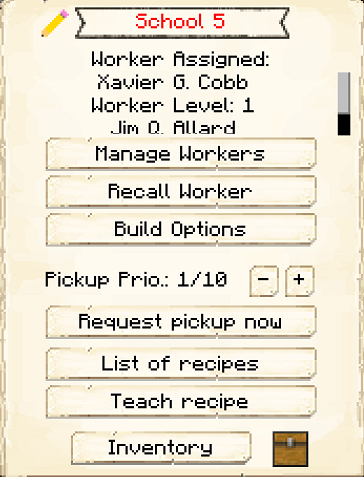
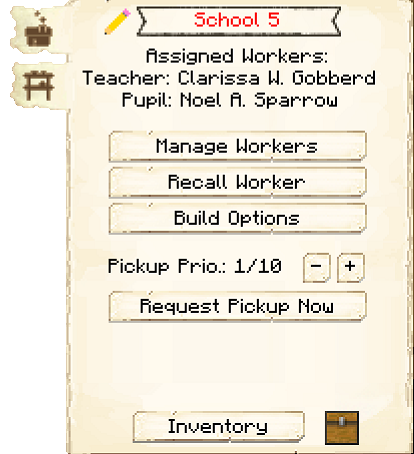
School Update (#801)

diff --git a/pages/src/source/buildings/school.md b/pages/src/source/buildings/school.md
@@ -6,9 +6,8 @@ layout: default
 
 {% capture content %}
 ### Note: The School cannot be built until you finish the research in the [University](../../source/buildings/university).
-<br>
 
-The School is where the Teacher will level up the Pupils' (children) skills. Paper will increase the leveling speed of the Pupils. 
+The School is where the Teacher will level up the Pupils' (children) Intelligence skill. Paper will increase the leveling speed of the Pupils. 
 
 The level of the School determines how many Pupils can be taught at a time.
 
@@ -27,32 +26,10 @@ The level of the School determines how many Pupils can be taught at a time.
 
 ## School GUI
 
-When accessing the School's hut block by right-clicking on it, you will see a GUI with different options:
-
 <div class="row">
-  <div class="col-sm-12 col-md">
-    <img src="../../assets/images/gui/schoolgui.png" class="img-fluid mx-auto" alt="School GUI">
-  </div>
-  <div class="col-sm-12 col-md">
-    <br>
-    <ul>
-      {% for item in site.data.gui.global %}
-        <li><strong>{{ item.button }}:</strong> {{ item.content }}</li>
-      {% endfor %}
-    </ul>
-  </div>
-</div>
-<br> <br>
+  <div class="col">
+    {% include contentblock/main-gui.html header="When accessing the School hut block by right-clicking on it, you will see a GUI with different options. You start on the main tab:" image="../../assets/images/gui/schoolgui.png" %}
 
-This is page two of the School GUI.
-
-<div class="row">
-    <div class="col-sm-12 col-md">
-        <img src="../../assets/images/gui/minstockgui.png" class="img-fluid mx-auto" alt="School GUI 2">
-    </div>
-    <div class="col-sm-12 col-md">
-        <ul>
-        <li><strong> Minimum Stock: </strong> Use this button to tell the School to keep a minimum stock on hand. Set items will be displayed above the button.</li>
-        </ul>
-    </div>
+    {% include contentblock/stock-gui.html buildingname="School" header="The second tab of the GUI is <strong>Minimum Stock</strong>. It has one button:" image="../../assets/images/gui/minstockgui.png" %}
+  </div>
 </div>
